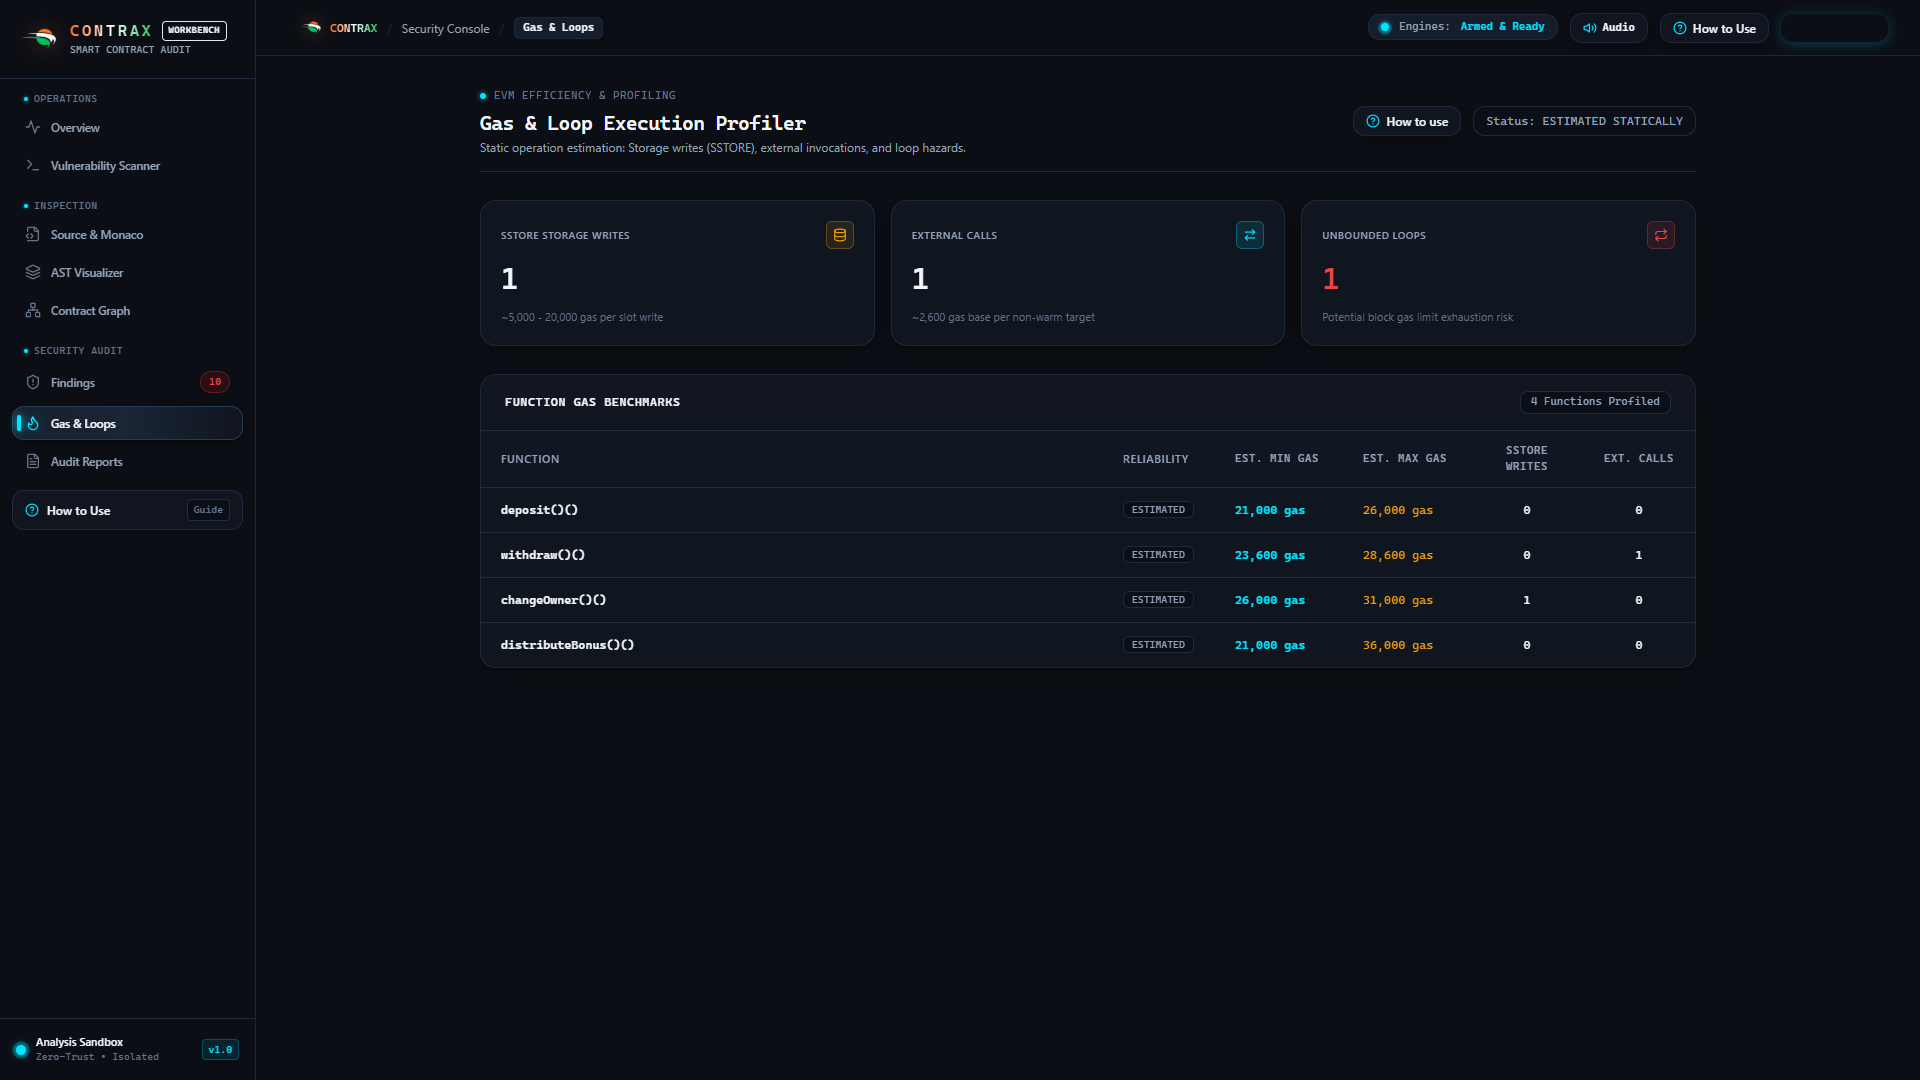
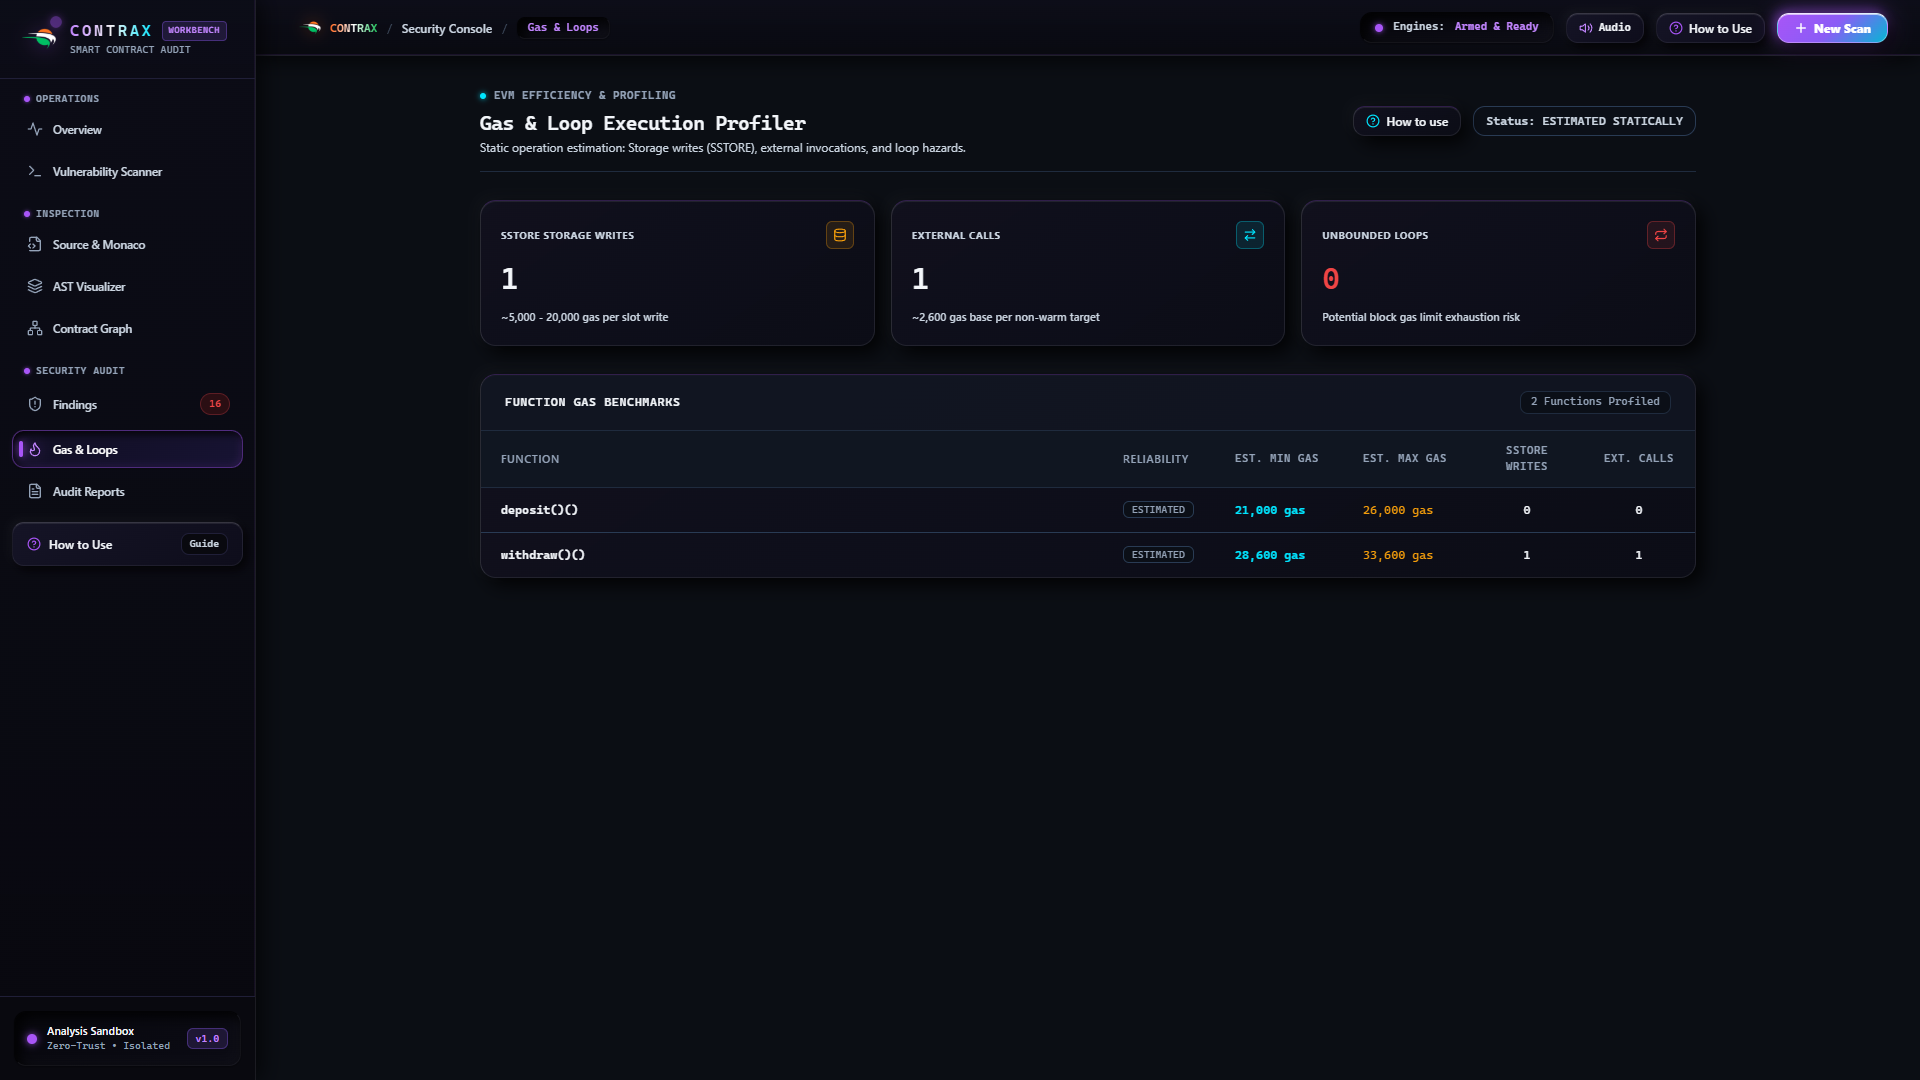
docs(readme): add updated Cyberpunk Violet UI screenshots and showcase styling

diff --git a/README.md b/README.md
@@ -30,11 +30,11 @@
 
 ## 🖥 Tactical Security Console & Live Interface Showcase
 
-CONTRAX is designed around a military-grade, dark cyberpunk **Tactical Cyan & Amber Radar** visual hierarchy, eliminating cognitive fatigue during smart contract audits and giving security teams immediate tactical situational awareness.
+CONTRAX is designed around a modern **Cyberpunk Violet & Electric Purple (Neu-Glass Hybrid)** tactile visual hierarchy, combining deep midnight obsidian panels with high-contrast electric violet glows and laser cyan telemetry to eliminate cognitive fatigue during smart contract audits.
 
 ### 1. Executive Operations Console & Threat Posture Gauge
 <div align="center">
-  <img src="assets/contrax_dashboard_real.png" alt="CONTRAX Executive Security Operations Console" width="100%" style="border-radius: 10px; border: 1px solid #1F2B3E; margin-bottom: 8px;" />
+  <img src="assets/contrax_dashboard_real.png" alt="CONTRAX Executive Security Operations Console" width="100%" style="border-radius: 10px; border: 1px solid #201F38; margin-bottom: 8px;" />
   <p align="center"><i><b>Executive Overview:</b> Real-time 0–100 Threat Posture health index, exposure gauge, severity ratio donut chart, SWC taxonomy breakdown, and multi-engine velocity metrics.</i></p>
 </div>
 
@@ -42,7 +42,7 @@ CONTRAX is designed around a military-grade, dark cyberpunk **Tactical Cyan & Am
 
 ### 2. Multi-Engine Vulnerability Scanner & Dropzone
 <div align="center">
-  <img src="assets/contrax_scanner_real.png" alt="CONTRAX Real-time Vulnerability Scanner" width="100%" style="border-radius: 10px; border: 1px solid #1F2B3E; margin-bottom: 8px;" />
+  <img src="assets/contrax_scanner_real.png" alt="CONTRAX Real-time Vulnerability Scanner" width="100%" style="border-radius: 10px; border: 1px solid #201F38; margin-bottom: 8px;" />
   <p align="center"><i><b>Scan Pipeline HUD:</b> Drag-and-drop Solidity files (.sol) or project archives (.zip), on-chain address importer, and instant test fixtures for reentrancy and access control.</i></p>
 </div>
 
@@ -50,7 +50,7 @@ CONTRAX is designed around a military-grade, dark cyberpunk **Tactical Cyan & Am
 
 ### 3. Vulnerability Detection Matrix
 <div align="center">
-  <img src="assets/contrax_findings_real.png" alt="CONTRAX Vulnerability Detection Matrix" width="100%" style="border-radius: 10px; border: 1px solid #1F2B3E; margin-bottom: 8px;" />
+  <img src="assets/contrax_findings_real.png" alt="CONTRAX Vulnerability Detection Matrix" width="100%" style="border-radius: 10px; border: 1px solid #201F38; margin-bottom: 8px;" />
   <p align="center"><i><b>Findings Matrix:</b> Prioritized vulnerability table with severity badges (Critical, High, Medium, Low), source targets with line numbers, detector provenance, confidence ratings, and review triggers.</i></p>
 </div>
 
@@ -58,7 +58,7 @@ CONTRAX is designed around a military-grade, dark cyberpunk **Tactical Cyan & Am
 
 ### 4. Vulnerability Remediation & Deep Inspection Sheet
 <div align="center">
-  <img src="assets/contrax_modal_real.png" alt="CONTRAX Vulnerability Remediation Modal" width="100%" style="border-radius: 10px; border: 1px solid #1F2B3E; margin-bottom: 8px;" />
+  <img src="assets/contrax_modal_real.png" alt="CONTRAX Vulnerability Remediation Modal" width="100%" style="border-radius: 10px; border: 1px solid #201F38; margin-bottom: 8px;" />
   <p align="center"><i><b>Remediation Inspector:</b> Deep dive modal displaying affected code snippets, plain-English security impact, developer remediation guidance, and official SWC registry links.</i></p>
 </div>
 
@@ -66,7 +66,7 @@ CONTRAX is designed around a military-grade, dark cyberpunk **Tactical Cyan & Am
 
 ### 5. Integrated Monaco IDE & Inline Security Annotations
 <div align="center">
-  <img src="assets/contrax_monaco_real.png" alt="CONTRAX Monaco Editor with Inline Annotations" width="100%" style="border-radius: 10px; border: 1px solid #1F2B3E; margin-bottom: 8px;" />
+  <img src="assets/contrax_monaco_real.png" alt="CONTRAX Monaco Editor with Inline Annotations" width="100%" style="border-radius: 10px; border: 1px solid #201F38; margin-bottom: 8px;" />
   <p align="center"><i><b>Monaco Source Viewer:</b> Embedded VS Code engine with Solidity syntax highlighting, contract file explorer, and interactive sidebar annotations linked directly to vulnerable lines.</i></p>
 </div>
 
@@ -74,7 +74,7 @@ CONTRAX is designed around a military-grade, dark cyberpunk **Tactical Cyan & Am
 
 ### 6. Interactive AST Semantic Hierarchy Explorer
 <div align="center">
-  <img src="assets/contrax_ast_real.png" alt="CONTRAX Solidity AST Hierarchy Explorer" width="100%" style="border-radius: 10px; border: 1px solid #1F2B3E; margin-bottom: 8px;" />
+  <img src="assets/contrax_ast_real.png" alt="CONTRAX Solidity AST Hierarchy Explorer" width="100%" style="border-radius: 10px; border: 1px solid #201F38; margin-bottom: 8px;" />
   <p align="center"><i><b>AST Visualizer:</b> Tree hierarchy decomposing contract declarations, state variables, modifiers, events, and functions with a dedicated node attributes inspector.</i></p>
 </div>
 
@@ -82,7 +82,7 @@ CONTRAX is designed around a military-grade, dark cyberpunk **Tactical Cyan & Am
 
 ### 7. Interactive SVG Contract Relationship Graph & Call Flow
 <div align="center">
-  <img src="assets/contrax_graph_real.png" alt="CONTRAX Contract Relationship & Call Graph" width="100%" style="border-radius: 10px; border: 1px solid #1F2B3E; margin-bottom: 8px;" />
+  <img src="assets/contrax_graph_real.png" alt="CONTRAX Contract Relationship & Call Graph" width="100%" style="border-radius: 10px; border: 1px solid #201F38; margin-bottom: 8px;" />
   <p align="center"><i><b>Relationship Visualizer:</b> Interactive node-link topology rendering contracts, function entrypoints, storage slot writes, external invocations, and fund flow vectors with category filtering.</i></p>
 </div>
 
@@ -90,7 +90,7 @@ CONTRAX is designed around a military-grade, dark cyberpunk **Tactical Cyan & Am
 
 ### 8. EVM Gas & Loop Execution Profiler
 <div align="center">
-  <img src="assets/contrax_gas_real.png" alt="CONTRAX EVM Gas & Loop Profiler" width="100%" style="border-radius: 10px; border: 1px solid #1F2B3E; margin-bottom: 8px;" />
+  <img src="assets/contrax_gas_real.png" alt="CONTRAX EVM Gas & Loop Profiler" width="100%" style="border-radius: 10px; border: 1px solid #201F38; margin-bottom: 8px;" />
   <p align="center"><i><b>Gas & Opcode Intelligence:</b> Per-function min/max/average gas consumption benchmarks, SSTORE write counters, external call counts, and unbounded loop hazard warnings.</i></p>
 </div>
 
@@ -98,7 +98,7 @@ CONTRAX is designed around a military-grade, dark cyberpunk **Tactical Cyan & Am
 
 ### 9. Security Audit Reports & Compliance Console
 <div align="center">
-  <img src="assets/contrax_reports_real.png" alt="CONTRAX Audit Report Console" width="100%" style="border-radius: 10px; border: 1px solid #1F2B3E; margin-bottom: 8px;" />
+  <img src="assets/contrax_reports_real.png" alt="CONTRAX Audit Report Console" width="100%" style="border-radius: 10px; border: 1px solid #201F38; margin-bottom: 8px;" />
   <p align="center"><i><b>Audit Reporting:</b> Dual-tone formal PDF audit generation with cryptographic verification seal, executive score summary, and machine-readable JSON exports for CI/CD DevSecOps.</i></p>
 </div>
 
@@ -106,7 +106,7 @@ CONTRAX is designed around a military-grade, dark cyberpunk **Tactical Cyan & Am
 
 ### 10. Interactive Auditor Guidance & Feature Walkthrough
 <div align="center">
-  <img src="assets/contrax_guide_real.png" alt="CONTRAX Auditor Guide and Walkthrough" width="100%" style="border-radius: 10px; border: 1px solid #1F2B3E; margin-bottom: 8px;" />
+  <img src="assets/contrax_guide_real.png" alt="CONTRAX Auditor Guide and Walkthrough" width="100%" style="border-radius: 10px; border: 1px solid #201F38; margin-bottom: 8px;" />
   <p align="center"><i><b>Feature Guide:</b> Step-by-step guidance modal detailing operational workflows, scoring methodology, auditor best practices, and keyboard shortcuts.</i></p>
 </div>
 
